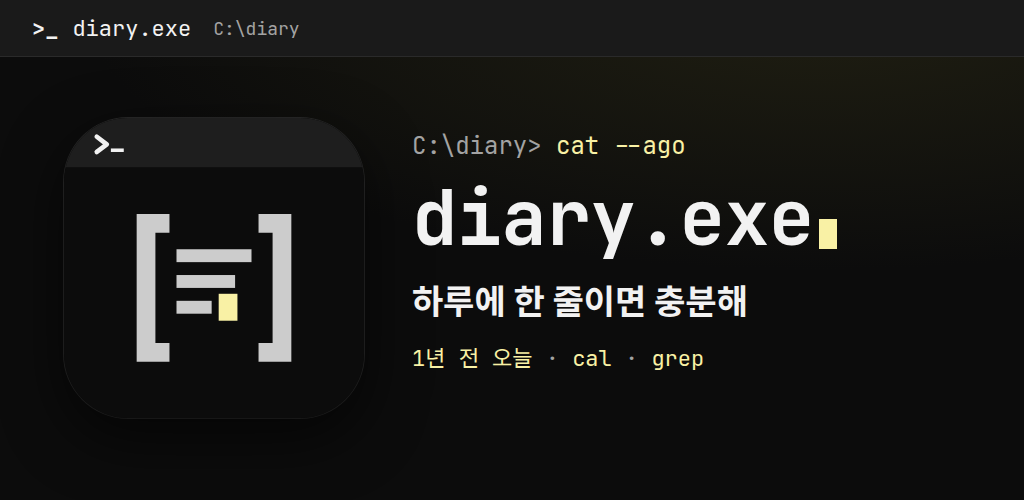
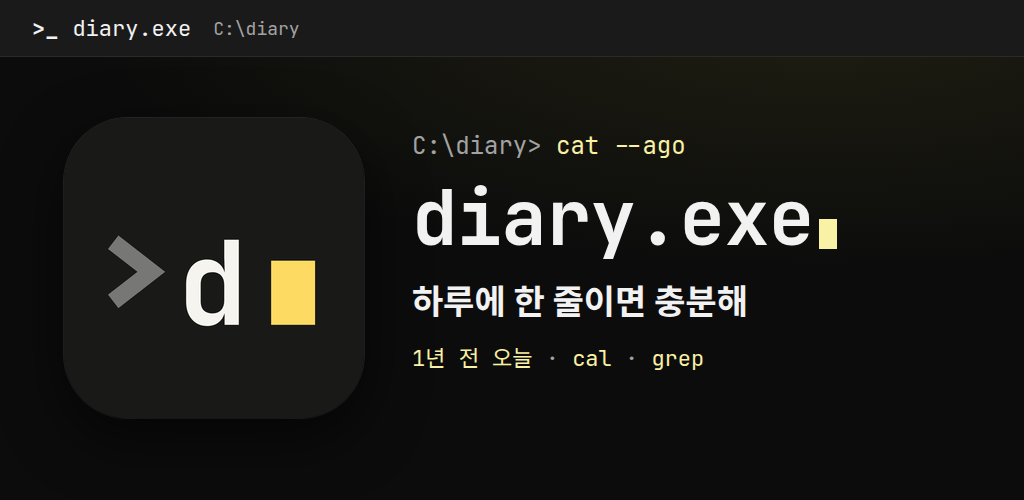
앱 아이콘 바꿈: MONO CURSOR (>  + 첫 글자 + 색 커서), 빌드 번호 올림
iOS · Android(적응형 포함) 아이콘, Play 512 아이콘 · 대표 이미지도 같이.

Claude-Session: https://claude.ai/code/session_017iZMWYbGKXjhd5bZRMzdGV

Changed region(s): [[0.0938, 0.42, 0.3125, 0.75], [0.0938, 0.27, 0.125, 0.33]]

diff --git a/design/icons/make-mono-cursor.js b/design/icons/make-mono-cursor.js
@@ -1,0 +1,31 @@
+// .exe 시리즈 앱 아이콘 (05 / MONO CURSOR): >  + 앱 첫 글자 + 색 커서.
+// 다시 그리기: node design/icons/make-mono-cursor.js  (playwright 필요)
+//   → design/icons/<앱>.png, <앱>-fg.png 가 생긴다. 이 앱 것을 assets/icon/icon.png, icon-foreground.png 로 복사하고
+//     dart run flutter_launcher_icons
+const { chromium } = require('playwright'); const fs = require('fs');
+const apps = { diary: ['d', '#FDDA62'], todo: ['t', '#6ED285'], ink: ['i', '#8DECFE'], camera: ['c', '#F45B52'] };
+const font = fs.readFileSync(__dirname + '/../../assets/fonts/JetBrainsMono-Bold.ttf').toString('base64');
+function svg(letter, color, bg) {
+  return `<svg xmlns="http://www.w3.org/2000/svg" viewBox="0 0 1024 1024" width="1024" height="1024">
+${bg ? '<rect width="1024" height="1024" fill="#191918"/>' : ''}
+<polyline points="168,424 298,525 168,626" fill="none" stroke="#777775" stroke-width="58" stroke-linejoin="miter" stroke-linecap="butt"/>
+<text x="508" y="706" text-anchor="middle" font-family="JBM" font-weight="700" font-size="398" fill="#F6F4EE">${letter}</text>
+<rect x="707" y="487" width="150" height="219" fill="${color}"/>
+</svg>`;
+}
+(async () => {
+  const b = await chromium.launch({ executablePath: '/opt/pw-browsers/chromium' });
+  const p = await b.newPage({ viewport: { width: 1024, height: 1024 } });
+  for (const [name, [letter, color]] of Object.entries(apps)) {
+    for (const bg of [true, false]) {
+      const s = svg(letter, color, bg);
+      await p.setContent(`<html><head><style>@font-face{font-family:JBM;src:url(data:font/ttf;base64,${font});font-weight:700}</style></head><body style="margin:0;background:transparent">${s}</body></html>`);
+      await p.evaluate(() => document.fonts.ready);
+      await p.waitForTimeout(100);
+      await p.screenshot({ path: `${__dirname}/${name}${bg ? '' : '-fg'}.png`, omitBackground: !bg, clip: { x: 0, y: 0, width: 1024, height: 1024 } });
+      // 원본 SVG (글자는 글꼴 이름만: 다시 그릴 때 make.js 를 쓴다)
+      if (bg) fs.writeFileSync(`${__dirname}/${name}.svg`, s);
+    }
+  }
+  await b.close();
+})();
